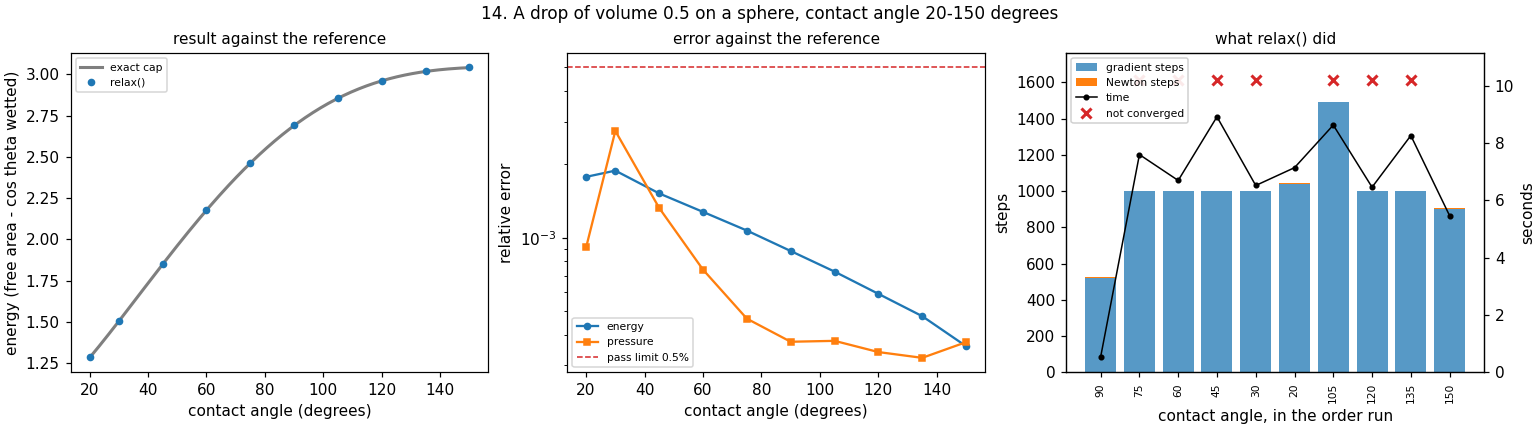
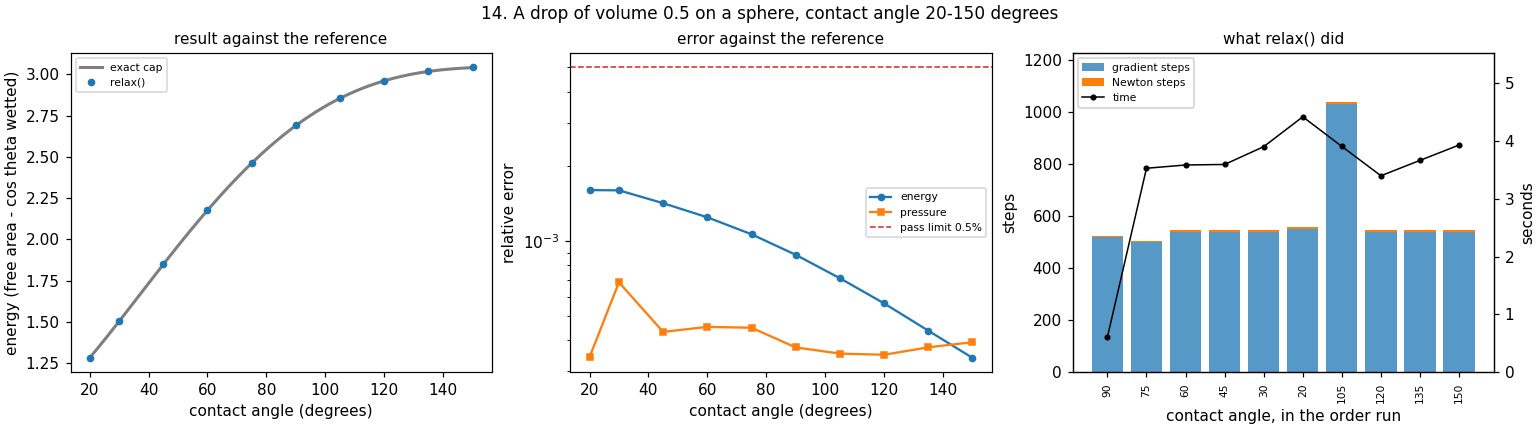
relax(): gradient rounds that creep without settling get a trial of Newton steps once half of max_iter is gone (kept if it converges or cuts the residual a hundredfold, else undone); stress case 14 now converges; case 8's unconverged states traced to a mesh breakdown at the bead-wall corner
Claude-Session: https://claude.ai/code/session_01Kwrdj7nwy1jTuiKZ3FpBEY

diff --git a/python/pysurfaceevolver/_relax.py b/python/pysurfaceevolver/_relax.py
@@ -35,6 +35,8 @@ _NEWTON_RESIDUAL_RISE = 1.1    # ... and one raising both the energy and the res
 _NEWTON_PROGRESS = 0.9         # Newton goes on while each step cuts the residual below this factor
 _TARGET_HALFWAY = 0.5          # ... or brings an unmet target this much closer
 _NO_FREEDOM = (3004, 3005)      # Evolver: fewer degrees of freedom than constraints
+_TRIAL_KEEP = 0.01             # ... and a Newton trial there is kept below this fraction of the residual
+_SLOW_ROUND = 0.95             # a round leaving the residual above this fraction of the last's is slow
 _NEWTON_STEPS = 20             # derivative(): Newton steps to reconverge, at most
 _DERIVATIVE_TOL = 1e-10        # ... down to this residual
 _STABILITY_NEAR = 100          # relax() checks stability below this many times tol
@@ -129,7 +131,13 @@ class _Relaxing(_Analysis):
           grow), 1e-9 with ``newton=0``, or ``max_iter`` steps. When Newton follows, a round that more than
           doubles the residual from its lowest so far is undone and Newton
           takes over (on a coarse mesh a contact line can collapse within a
-          few steps).
+          few steps). Rounds that have used half of ``max_iter`` and keep
+          slowing without settling (the residual falling by less than 5% a
+          round, three rounds running: a contact line creeping over a curved
+          wall) get a trial of Newton steps,
+          kept if they converge or cut the residual a hundredfold; otherwise
+          the surface goes back and the rounds go on (a neck shrinking toward
+          a pinch-off creeps the same way).
         * Then up to ``newton`` safeguarded Newton steps (see :meth:`newton`;
           ``seek`` and ``undo_if`` as there), until the residual is below
           ``tol`` or stops falling.
@@ -534,7 +542,7 @@ class _Relaxing(_Analysis):
 
     def _newton(self, steps: int, seek: Optional[bool], tol: Optional[float],
                 undo_if: Optional[Callable[["Evolver"], bool]],
-                output: List[str]) -> "tuple[int, float]":
+                output: List[str], grace: bool = False) -> "tuple[int, float]":
         """Safeguarded Newton steps; see newton(). Returns the steps kept and
         the residual of the surface as it is left."""
         kept = 0
@@ -595,6 +603,8 @@ class _Relaxing(_Analysis):
             if tol is not None and res1 < tol and gap0 <= _TARGET_LOST:
                 break
             if not progress:
+                if grace and step == 0:     # (a trial: one slow first step allowed)
+                    continue
                 break
         return kept, res0
 
@@ -802,6 +812,8 @@ class _Run:
         self.seek, self.undo_if = seek, undo_if
         self.energy_tol, self.callback, self.every = energy_tol, callback, every
         self.trace = _Trace()
+        self.slowed = False         # the last rounds ended slowing down (see settle)
+        self.early_newton = 0       # Newton steps a trial in settle() kept
 
     def next_level(self, levels: int) -> int:
         """The level after the last one with gradient steps (adaptive passes,
@@ -814,16 +826,41 @@ class _Run:
         return self.finish(lev)
 
     def settle(self, lev: int) -> None:
-        """The level's gradient rounds, the residual watched when Newton follows."""
-        self.rounds(lev, self.max_iter, self.tidy, watch=self.newton > 0)
+        """The level's gradient rounds, the residual watched when Newton
+        follows. When the rounds have used half of ``max_iter`` and are
+        slowing down without settling (a contact line creeping over a curved
+        wall: the residual falling by less than 5% a round, three rounds
+        running), Newton is tried there; kept if it
+        converges or cuts the residual a hundredfold, else the surface goes
+        back and the rounds carry on as before (a neck shrinking toward a pinch-off creeps the same way, and
+        there the rounds must go on)."""
+        ev, watch = self.ev, self.newton > 0
+        self.slowed = False
+        self.rounds(lev, self.max_iter, self.tidy, watch=watch, slow_exit=watch)
+        if not self.slowed:
+            return
+        coords = ev._coords()
+        before = ev.residual()
+        kept, residual = self.newton_steps(grace=True)
+        # kept if it converged, or got well on the way (the level's Newton
+        # carries on from there; a soft mode can make Newton slow)
+        keep = (residual < self.tol or residual < _TRIAL_KEEP*before) \
+            and ev._target_gap()[0] <= _TARGET_LOST
+        if keep:
+            self.early_newton += kept
+            return
+        ev._put_back(coords)
+        used = self.trace.level.count(lev)
+        if used < self.max_iter:
+            self.rounds(lev, self.max_iter - used, self.tidy, watch=watch)
 
-    def newton_steps(self) -> "tuple[int, float]":
+    def newton_steps(self, grace: bool = False) -> "tuple[int, float]":
         # far from equilibrium the Hessian is indefinite, which Evolver
         # prints at every step; relax() checks stability itself at the end
         with warnings.catch_warnings():
             warnings.filterwarnings("ignore", "WARNING 1825", EvolverWarning)
             return self.ev._newton(self.newton, self.seek, self.tol, self.undo_if,
-                                   self.trace.output)
+                                   self.trace.output, grace)
 
     def newton_first(self) -> "tuple[int, float] | None":
         """Five gradient steps, then safeguarded Newton steps as long as each
@@ -854,6 +891,13 @@ class _Run:
         return None
 
     def finish(self, lev: int) -> "tuple[int, float]":
+        """Newton steps, and the conjugate-gradient fallback (see _finish);
+        counting the steps a trial in settle() kept."""
+        steps, residual = self._finish(lev)
+        early, self.early_newton = self.early_newton, 0
+        return steps + early, residual
+
+    def _finish(self, lev: int) -> "tuple[int, float]":
         """Newton steps, then one conjugate-gradient pass and Newton again if
         still unconverged, kept only if that converges. The pass averages
         vertices but doesn't equiangulate, so the coordinates taken before it
@@ -964,7 +1008,7 @@ class _Run:
 
     def rounds(self, lev: int, max_iter: int, tidy: int, *, watch: bool = False,
                energy_tol: Optional[float] = None, average_only: bool = False,
-               sound: bool = False) -> None:
+               sound: bool = False, slow_exit: bool = False) -> None:
         """Gradient steps until the energy settles (see relax()). With tidy=k,
         'u; V' (``average_only``: 'V') every k steps and the energy compared
         round to round. With ``watch`` (Newton follows), also the residual at
@@ -985,6 +1029,7 @@ class _Run:
         watch = watch and tidy > 0
         start = ev._coords()
         gap, _ = ev._target_gap()
+        slow, last_res = 0, 0.0
         for i in range(1, max_iter + 1):
             trace.step(ev)
             if callback is not None and i % every == 0:
@@ -1020,6 +1065,10 @@ class _Run:
                     trace.refresh()
                     break
                 best = min(best, res)
+                if slow_exit:                   # falling, but slowly (see settle)
+                    slow = slow + 1 if last_res and _SLOW_ROUND*last_res < res < last_res \
+                        else 0
+                    last_res = res
             if tidy:
                 equi, avg = ev._tidy_kinds()
                 cmd = "; ".join(c for c, on in (("u", equi and not average_only), ("V", avg)) if on)
@@ -1033,6 +1082,11 @@ class _Run:
             previous = trace.energy[-1]
             quiet = quiet + 1 if change < energy_tol else 0
             if quiet >= _WINDOW:
+                break
+            # slowing down without settling, with half the budget gone (a
+            # surface that settles normally never gets here)
+            if slow >= _WINDOW and i >= max_iter//2:
+                self.slowed = True
                 break
         # vertex averaging moves volumes a little (on a degenerate mesh a lot),
         # and the next round's steps would project them back: at the end, one

diff --git a/bench/stress/case14_sphere_drop.py b/bench/stress/case14_sphere_drop.py
@@ -7,15 +7,10 @@ minus cos(theta) times the wetted area) and pressure. Checked: Evolver.energy
 the line integrals leave out come from the constraint, with the angle a
 parameter) and the pressure to 0.5%, every step converged; the contact angles
 measured on the mesh within 3 degrees (first order in the edge length).
-Each sweep starts from the 90 degree drop.
-
-Fails on defaults (October 2026): as the contact line creeps over the sphere,
-the gradient rounds never settle (1e-5 per round) and use up max_iter; the
-first Newton step then lowers the energy but cuts the residual by less than
-10%, so Newton stops and the step ends unconverged, although plain Newton
-steps from there converge quadratically. Counting such an energy drop as
-progress broke case 2 past its fold; giving the conjugate-gradient fallback
-its own budget broke max_iter. Energies stay within 0.3% regardless."""
+Each sweep starts from the 90 degree drop. (As the contact line creeps over
+the sphere the gradient rounds slow down without settling; past half of
+max_iter relax() then tries Newton, and this case is what that rule was made for: before it, the
+rounds used up max_iter and most steps ended unconverged.)"""
 
 import os
 import sys

diff --git a/docs/stress_cases.md b/docs/stress_cases.md
@@ -399,7 +399,7 @@ print(f"height {ev.mesh().vertices[:, 2].max():.4f} (reference {ref['height']:.4
 ```
 
 ```text
-height 1.0738 (reference 1.0714), energy 62.6159 (reference 62.5967)
+height 1.0740 (reference 1.0714), energy 62.6181 (reference 62.5967)
 ```
 
 Height and energy within 0.25%.
@@ -558,25 +558,25 @@ for step in recipes.continuation(ev, "theta", [75, 60, 45, 30]):
 ```
 
 ```text
-theta 75: energy 2.46377 (exact 2.46113), pressure 3.4789 (exact 3.4772), angle on the mesh 72.6, NOT converged
-theta 60: energy 2.17858 (exact 2.17580), pressure 3.1790 (exact 3.1767), angle on the mesh 57.3, NOT converged
-theta 45: energy 1.85078 (exact 1.84797), pressure 2.8287 (exact 2.8250), angle on the mesh 41.9, NOT converged
-theta 30: energy 1.50555 (exact 1.50271), pressure 2.4575 (exact 2.4508), angle on the mesh 26.2, NOT converged
+theta 75: energy 2.46376 (exact 2.46113), pressure 3.4788 (exact 3.4772), angle on the mesh 72.9, converged
+theta 60: energy 2.17851 (exact 2.17580), pressure 3.1781 (exact 3.1767), angle on the mesh 58.7, converged
+theta 45: energy 1.85060 (exact 1.84797), pressure 2.8262 (exact 2.8250), angle on the mesh 43.8, converged
+theta 30: energy 1.50512 (exact 1.50271), pressure 2.4525 (exact 2.4508), angle on the mesh 28.3, converged
 ```
 
-The energies and pressures stay within 0.3% of the exact cap's at 1,700 facets; the
-contact angle measured on the mesh lags the set one by a degree or more (it is first
-order in the edge length). But this case shows a limit of the defaults: as the contact
-line creeps over the sphere the gradient rounds never settle, use up `max_iter`, and
-Newton stops after a first step that lowers the energy without cutting the residual
-much, so most steps end unconverged (`step.result.converged` is False). A few more
-`ev.newton()` steps converge from there, quadratically.
+The energies and pressures are within 0.2% of the exact cap's at 1,700 facets; the
+contact angle measured on the mesh lags the set one by a degree or two (it is first
+order in the edge length). As the contact line creeps over the sphere, gradient steps
+make slow progress: once the rounds have used half of `max_iter` with the residual
+falling by less than 5% a round, `relax()` tries Newton there, which converges in a
+few steps. (Before that rule, the rounds used up `max_iter` and most steps ended
+unconverged.)
 
 ```{figure} _static/stress/case14.png
 :alt: Case 14: result, error and solver steps
 :width: 100%
 
-Left, the energy against the exact cap. Middle, the errors in energy and pressure (limit 0.5%). Right, what relax() did, in the order run: most steps use the full 1,000 gradient steps and end unconverged.
+Left, the energy against the exact cap. Middle, the errors in energy and pressure (limit 0.5%). Right, what relax() did, in the order run.
 ```
 
 ```{figure} _static/stress/case14_shapes.png

diff --git a/CHANGELOG.md b/CHANGELOG.md
@@ -7,13 +7,8 @@
 - Four new cases (`bench/stress/`, and sections in the stress cases page), each on
   `relax()`'s defaults against an exact or converged reference:
   - 14, a drop on a sphere, its contact angle swept from 20 to 150 degrees as a
-    parameter (exact spherical caps): energies within 0.3%, but most steps end
-    unconverged. The contact line creeps over the curved wall, the gradient rounds
-    use up `max_iter`, and Newton stops after a first step that lowers the energy
-    while barely cutting the residual (a second `relax()` or a few `newton()` steps
-    then converge). Two fixes were tried and dropped: counting the energy drop as
-    progress broke the catenoid past its fold (case 2), and a budget of its own for
-    the conjugate-gradient fallback broke `max_iter`.
+    parameter (exact spherical caps): energies within 0.2%. It found the defect
+    fixed below.
   - 15, a double bubble from two boxes, the second volume shrunk to 0.2 (the standard
     double bubble): area and pressures within 0.2%.
   - 16, a solder joint's force on its pad (Brakke's bga-3) against his axisymmetric
@@ -24,7 +19,29 @@
 - `docs/stress_helpers.py` has the exact references (`drop_on_sphere`,
   `double_bubble`).
 
+### relax()
+
+- Gradient rounds that creep without settling (a contact line moving slowly over a
+  curved wall) used up `max_iter`, and Newton then gave up after one slow step:
+  stress case 14 ended most steps unconverged. Now, once the rounds have used half of
+  `max_iter` with the residual falling by less than 5% a round (three rounds
+  running), Newton is tried there; kept if it converges or cuts the residual a
+  hundredfold, otherwise the surface goes back and the rounds go on (a neck
+  shrinking toward a pinch-off creeps the same way, and must go on: case 2). Case 14
+  now converges at every step, in half the time; every other case gives the results
+  it gave before. Tried and dropped on the way: counting an energy drop as Newton
+  progress (case 2 failed past its fold), a budget of its own for the
+  conjugate-gradient fallback (it broke `max_iter`), and the trial without the
+  half-budget condition (fewer tidying rounds cost accuracy: the gravity puddle
+  went from 0.22% to 0.54%).
+- Stress case 8's unconverged states traced: in a typical band state 95% of the
+  residual (squared) sits in ten vertices at the corner where a bead's contact line
+  meets the wall, with facets under a degree and vertices pushed into the bead. A
+  local mesh breakdown, which only remeshing there fixes (not done by `relax()`).
+
 ### Documentation
+
+- Figures for stress cases 13 to 17.
 
 - The site reads as one path: grouped navigation (getting started, guides,
   examples, Brakke's samples, reference), every page saying what it adds and

diff --git a/docs/relaxing.md b/docs/relaxing.md
@@ -143,26 +143,26 @@ first damaged one of the others. The one who knows the geometry picks `h`.
 
 ## Where the defaults stop working
 
-Of the fourteen stress cases, eleven pass with defaults alone: a liquid column past
+Of the fourteen stress cases, twelve pass with defaults alone: a liquid column past
 Rayleigh-Plateau (the instability shows at 1.8% past its onset), a catenoid up to its
 fold, a liquid bridge with the gap closing to 1e-3, a barrel drop on a fibre (its
 roll-up reported as an instability), a cube inflated a hundredfold, a gravity puddle,
 a drop shrinking to 1e-4 of its volume, Schwarz's P and D surfaces in quotient
-spaces (to 1e-6 and 2e-5 when extrapolated), a double bubble, a solder joint's force
-(to 5e-5 against an axisymmetric model, extrapolated) and a catenoid between round
-wires stopped at its fold. Three don't:
+spaces (to 1e-6 and 2e-5 when extrapolated), a drop on a sphere from 20 to 150
+degrees, a double bubble, a solder joint's force (to 5e-5 against an axisymmetric
+model, extrapolated) and a catenoid between round wires stopped at its fold. Two
+don't:
 
 * **A drop at 170 degrees** on a coarse starting mesh (480 facets): the implied contact
   angle is 1.7 degrees off (the case allows 1.5; up to 160 degrees it passes). More
   resolution helps.
-* **A drop on a sphere** with its contact angle swept: the contact line creeps over
-  the curved wall, the gradient rounds use up `max_iter` without settling, and Newton
-  stops after one step that lowers the energy but barely cuts the residual. Most
-  steps end unconverged, although energies stay within 0.3% and a few `ev.newton()`
-  steps converge from there.
 * **The drainage band** ({doc}`slit_drainage`) on plain defaults: band pressures
   up to several percent off (median 0.3%). With `ev.remesh(target=h)` each step, as in the notebook, they
-  agree with a finer reference to 0.02% (median).
+  agree with a finer reference to 0.02% (median). Without it the mesh breaks down at
+  the corner where a bead's contact line meets the wall: in a typical band state 95%
+  of the residual (squared) sits in ten vertices there, with facets under a degree
+  and vertices pushed into the bead, so nearly every state ends unconverged although
+  the pressure is within a few percent.
 
 Other things to know:
 
